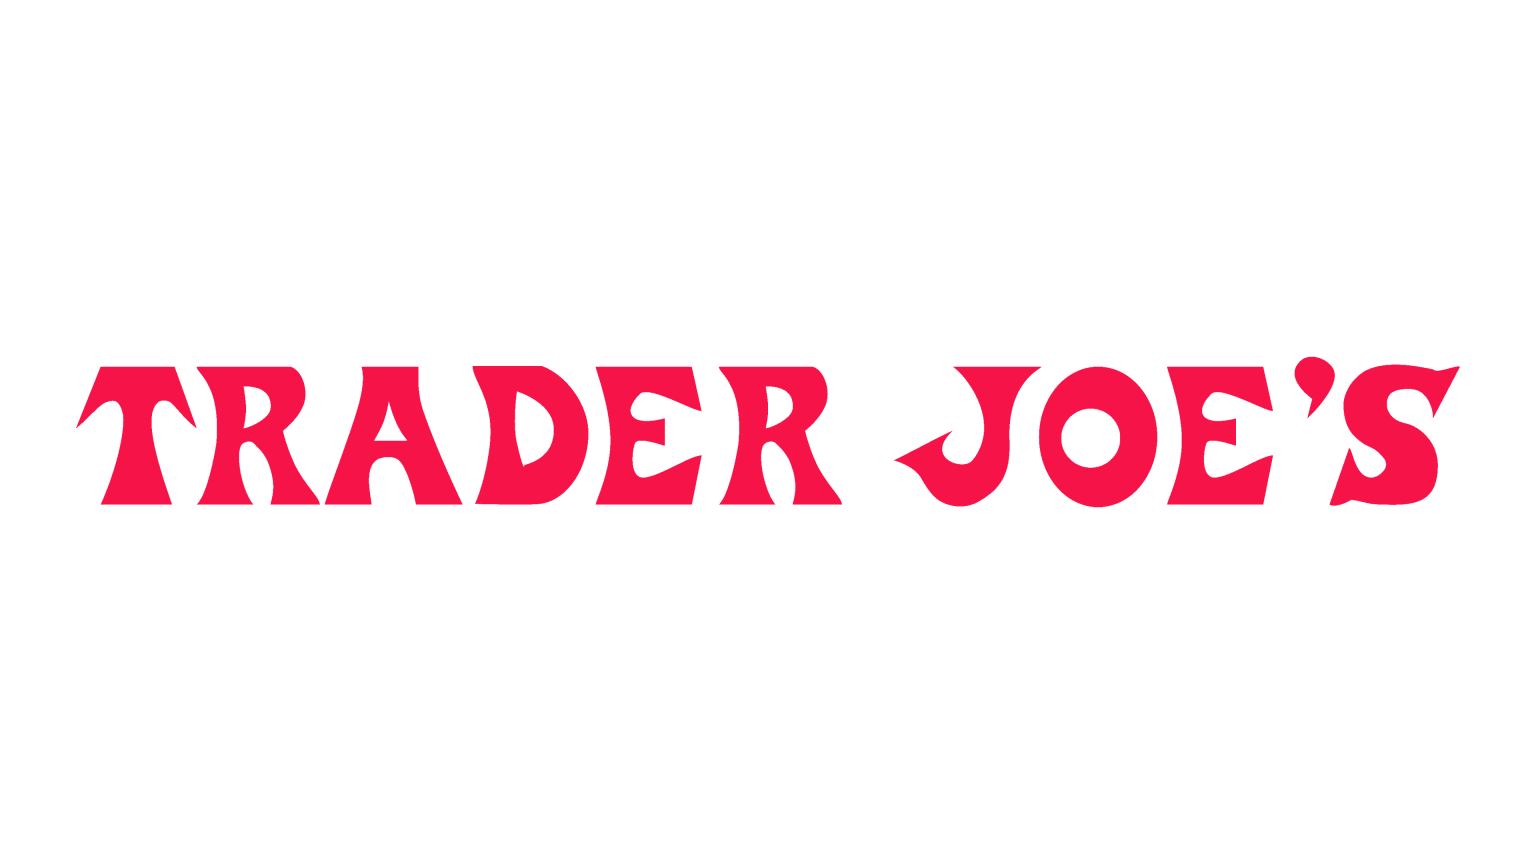
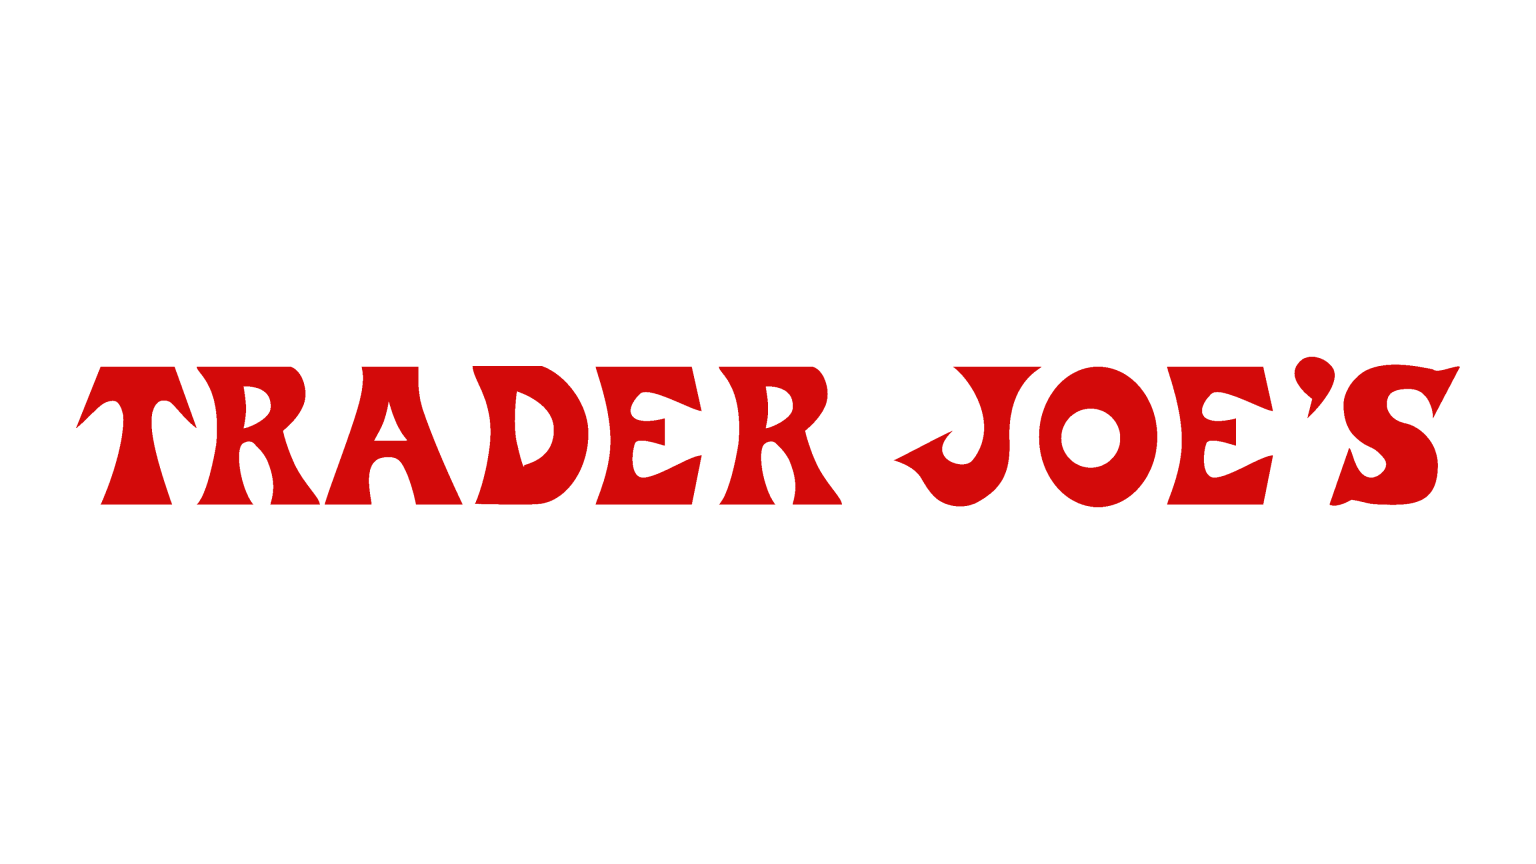
c

Changed region(s): [[0.0312, 0.4062, 0.5625, 0.5938], [0.5938, 0.4062, 0.9688, 0.5938]]

diff --git a/trader-joes/index.html b/trader-joes/index.html
@@ -406,7 +406,7 @@
      fills the letterbox area. Before = white (the before image is a
      transparent PNG so the cell's white shows through). After = one
      of two colors per layer (white for the white-background variants,
-     red #F50A41 — the Trader Joe's brand red — for the one-on-red
+     red #D20000 — the Trader Joe's documented brand red — for the one-on-red
      variant) so the sequence never shows black and the red matches
      the red inside each image seamlessly. The After cell layers three wordmark variants that slide
      horizontally like a wall of panels: the active panel sits at x=0,
@@ -422,7 +422,7 @@
 
   .foundations-after { position: relative; overflow: hidden; background: #ffffff; }
   .foundations-after__layer--white { background: #ffffff; }
-  .foundations-after__layer--red   { background: #F50A41; }
+  .foundations-after__layer--red   { background: #D20000; }
   .foundations-after__layer {
     position: absolute;
     inset: 0;
@@ -593,6 +593,13 @@
     .deliverables-cell:hover .deliverables-cell__img,
     .deliverables-cell:focus-within .deliverables-cell__img { transform: none; }
   }
+
+  /* ─── 06 · Identity poster cell ───────────────────────────────────
+     case-study.css paints .media__img with a black background. Here
+     we want white behind the poster instead so any edge trim reads
+     as a clean white border, matching the poster's own page color. */
+  .identity-poster       { background: #ffffff; }
+  .identity-poster__img  { background: #ffffff; object-fit: contain; }
   @media (prefers-reduced-motion: reduce) {
     .lineup-cell__img,
     .lineup-preview { transition: opacity 120ms linear; transform: none; }
@@ -1194,12 +1201,11 @@
     </div>
 
     <hr class="unesco__section-rule" aria-hidden="true" />
-    <!-- ─── 06 · Typography ────────────────────────────────────────── -->
+    <!-- ─── 06 · Identity System ─────────────────────────────────── -->
     <div class="g-span-1 section-text">
-      <p class="section-label"><span class="section-label__num">06</span>Typography</p>
+      <p class="section-label"><span class="section-label__num">06</span>Identity System</p>
       <p class="statement">
-        A system must be able to flex. So, how far can the logo
-        <em>be pushed</em>?
+        A world seen through <em>Good Guy Joe&rsquo;s</em> eyes.
       </p>
       <button class="read-more" type="button" aria-expanded="false" aria-controls="rm-typography">
         <span>Read more</span>
@@ -1207,240 +1213,29 @@
       </button>
       <div class="read-more__panel" id="rm-typography">
         <div class="read-more__inner">
-          <p>Well, I kept asking &ldquo;what if?&rdquo; of the modular logo, holding to one rule: no new shapes, only what the logo is made of. That rule produced two typefaces for the identity system: Building Blocks and Woven Textiles.</p>
+          <p>This is perhaps my most youthful project: imaginative, tangible, and maximalist. I am open-minded and versatile. I am not bound to one style. One thing that defines my work is my affinity for color. The world is beautiful, and I have been given the gift of experiencing its colors.</p>
         </div>
       </div>
     </div>
 
     <div class="g-span-2 section-media">
-      <!-- Two custom typefaces side by side. Portrait 2:3 to match
-           the PDF page ratio each was exported from. -->
-      <div class="media-pair">
-        <figure class="media" style="aspect-ratio: 2 / 3;">
-          <img class="media__img" src="/ASSETS/IMAGES/UNESCO/typeface-01.jpg" alt="Custom Typeface 1 — Building Blocks" />
-        </figure>
-        <figure class="media" style="aspect-ratio: 2 / 3;">
-          <img class="media__img" src="/ASSETS/IMAGES/UNESCO/typeface-02.jpg" alt="Custom Typeface 2 — Woven Textiles" />
-        </figure>
-      </div>
-    </div>
-
-    <hr class="unesco__section-rule" aria-hidden="true" />
-    <!-- ─── 07 · Applications (three-image row) ──────────────────── -->
-    <div class="g-span-1 section-text">
-      <p class="section-label"><span class="section-label__num">07</span>Applications</p>
-      <p class="statement">
-        The system then is carried into both spatial, ephemeral and
-        <em>digital</em> media.
-      </p>
-      <button class="read-more" type="button" aria-expanded="false" aria-controls="rm-applications">
-        <span>Read more</span>
-        <span class="read-more__line" aria-hidden="true"></span>
-      </button>
-      <div class="read-more__panel" id="rm-applications">
-        <div class="read-more__inner">
-          <p><strong>The World Needs U.</strong></p>
-          <p>The slogan plays on the four U&rsquo;s in the logo, but it reaches past UNESCO to the world it serves: us. Organizations like UNESCO exist for the generations that come after us. It&rsquo;s on all of us to carry our stories, cultures, and traditions into the future, not leave them behind. The world needs U.</p>
-          <p><strong>Safeguard Humanity&rsquo;s Inheritance.</strong><br>Our inheritance is all around us, in the identities we hold today. Without intention, it can be lost.</p>
-          <p><strong>Protect/Preserve/Prepare What Makes Us Human.</strong><br>Protect who we are today. Preserve what the past has given us. Prepare what we pass on. This is why the rebrand matters: we cannot forget who we are, or what shaped us.</p>
-          <p>I think, create, and design this way because of my Peruvian and Salvadoran heritage. This is my perspective, and that is the beauty of who we are, as individuals and as a collective. Every perspective is needed to see the whole picture. Without our cultures, our stories, and our identities, humanity would be a shell of itself.</p>
-          <p>As part of the identity system, I also designed a new digital home for UNESCO, one that puts the people, lands, and cultures it protects at the center. I left the corporate look behind for something inviting, youthful, and vibrant. My goal was for every page to offer something new, so visitors would keep wanting to discover more.</p>
-        </div>
-      </div>
-    </div>
-
-    <div class="g-span-2 section-media">
-      <!-- 3 × 2 poster grid — the six macro posters from the series.
-           Visual order: 01, 06, 03, 05, 04, 02 (per user layout). -->
-      <div class="section-media__posters">
-        <figure class="media media--poster"><img class="media__img" src="/ASSETS/IMAGES/UNESCO/poster-01.jpg" alt="UNESCO macro poster — Safeguard Humanity's Inheritance" /></figure>
-        <figure class="media media--poster"><img class="media__img" src="/ASSETS/IMAGES/UNESCO/poster-06.jpg" alt="UNESCO macro poster — United Nations Educational, Scientific And Cultural Organization" /></figure>
-        <figure class="media media--poster"><img class="media__img" src="/ASSETS/IMAGES/UNESCO/poster-03.jpg" alt="UNESCO macro poster — The World Needs U, 1946–2026" /></figure>
-        <figure class="media media--poster"><img class="media__img" src="/ASSETS/IMAGES/UNESCO/poster-05.jpg" alt="UNESCO macro poster — The World That Sustains, Moves, Remembers, and is Built Through Us" /></figure>
-        <figure class="media media--poster"><img class="media__img" src="/ASSETS/IMAGES/UNESCO/poster-04.jpg" alt="UNESCO macro poster — Protect What Makes Us Human" /></figure>
-        <figure class="media media--poster"><img class="media__img" src="/ASSETS/IMAGES/UNESCO/poster-02.jpg" alt="UNESCO macro poster — Protect. Preserve. Prepare." /></figure>
-      </div>
-
-      <!-- Each cell cycles 4 images on a shared 16s loop; the two cells
-           split the 8 applications equally. 05 is pinned near the
-           bottom so the UNESCO podium stays visible when the portrait
-           crops into the square cell. See .media__aslide keyframes. -->
-      <div class="section-media__triptych section-media__triptych--pair">
-        <figure class="media media--square">
-          <img class="media__img media__aslide media__aslide--1" src="/ASSETS/IMAGES/UNESCO/application-02.jpg" alt="UNESCO application — rooftop billboard" />
-          <img class="media__img media__aslide media__aslide--2" style="object-position: center 85%;" src="/ASSETS/IMAGES/UNESCO/application-05.jpg" alt="UNESCO application — Director-General podium" />
-          <img class="media__img media__aslide media__aslide--3" src="/ASSETS/IMAGES/UNESCO/application-07.jpg" alt="UNESCO application — bridge wheatpaste poster" />
-          <img class="media__img media__aslide media__aslide--4" src="/ASSETS/IMAGES/UNESCO/application-10.jpg" alt="UNESCO application — cylindrical street kiosk" />
-        </figure>
-        <figure class="media media--square">
-          <img class="media__img media__aslide media__aslide--1" src="/ASSETS/IMAGES/UNESCO/application-04.jpg" alt="UNESCO application — building-side billboard" />
-          <img class="media__img media__aslide media__aslide--2" src="/ASSETS/IMAGES/UNESCO/application-09.jpg" alt="UNESCO application — unesco HQ banner" />
-          <img class="media__img media__aslide media__aslide--3" src="/ASSETS/IMAGES/UNESCO/application-11.jpg" alt="UNESCO application — parking + bike station sign" />
-          <img class="media__img media__aslide media__aslide--4" src="/ASSETS/IMAGES/UNESCO/application-12.jpg" alt="UNESCO application — The World Needs U. kiosk" />
-        </figure>
-      </div>
-
-      <!-- Walkthrough screen recording — full native video controls so
-           visitors can play / pause / scrub. Uses object-fit: contain
-           + black bg so the full recording frame is always visible. -->
-      <figure class="media media--wide applications-walkthrough">
-        <video class="media__video applications-walkthrough__video"
-               controls preload="metadata" playsinline webkit-playsinline
-               disablepictureinpicture disableremoteplayback
-               aria-label="UNESCO applications walkthrough">
-          <source src="/ASSETS/IMAGES/UNESCO/applications-walkthrough.mp4" type="video/mp4">
-        </video>
+      <!-- Solo identity system poster — portrait 2:3 matches the PDF's
+           native page ratio. The designer attribution in the footer bar
+           is painted over with matching #D20000 at export time. White
+           backdrop + contain fit so any tiny edge trim shows as white,
+           not the case-study.css default black. -->
+      <figure class="media identity-poster" style="aspect-ratio: 2 / 3;">
+        <img class="media__img identity-poster__img" src="/ASSETS/IMAGES/TRADER%20JOES/identity-hero.jpg" alt="Trader Joe&rsquo;s identity system poster: key drivers, taglines, concept, typography, materials, target audience, and color palette" />
       </figure>
-    </div>
-
-    <hr class="unesco__section-rule" aria-hidden="true" />
-    <!-- ─── 08 · Tangible Forms ──────────────────────────────────── -->
-    <div class="g-span-1 section-text">
-      <p class="section-label"><span class="section-label__num">08</span>Tangible Forms</p>
-      <p class="statement">
-        80 years of human connection.
-        <em>What an accomplishment</em>.
-      </p>
-      <button class="read-more" type="button" aria-expanded="false" aria-controls="rm-celebration">
-        <span>Read more</span>
-        <span class="read-more__line" aria-hidden="true"></span>
-      </button>
-      <div class="read-more__panel" id="rm-celebration">
-        <div class="read-more__inner">
-          <p>To honor 80 years of UNESCO, I wanted objects you could hold and contemplate, built around what I see as UNESCO&rsquo;s greatest accomplishment: human connection. I commissioned a woven blanket and, wanting in on the fun, I personally hand-sewed a vegetable-tanned leather bag, its icons coming together to form an image of our world. The same image lives in the printed atlas.</p>
-          <p>You never know where one small idea will take you. That&rsquo;s the beauty of design. It is vital to my process to never throw an idea away. I keep it close, in my sketches. Perhaps it returns in a way I hadn&rsquo;t imagined.</p>
-        </div>
-      </div>
-    </div>
-
-    <div class="g-span-2 section-media">
-      <!-- 2 long portrait cells, side by side on desktop, stacked on
-           mobile. All 15 celebration images are split evenly: cell A
-           cycles 01–08 (8 images), cell B cycles 09–15 (7 images).
-           JS at the bottom of the page toggles .is-active on one
-           slide at a time; CSS handles the crossfade. -->
-      <div class="section-media__triptych section-media__triptych--pair tangible-forms">
-        <figure class="media tangible-forms__cell" data-tangible-interval="5000" style="aspect-ratio: 3 / 2;">
-          <img class="media__img media__tslide is-zoomed is-active" src="/ASSETS/IMAGES/UNESCO/celebration-01.jpg" alt="Tangible form 01" />
-          <img class="media__img media__tslide" src="/ASSETS/IMAGES/UNESCO/celebration-02.jpg" alt="Tangible form 02" />
-          <img class="media__img media__tslide" src="/ASSETS/IMAGES/UNESCO/celebration-03.jpg" alt="Tangible form 03" />
-          <img class="media__img media__tslide" src="/ASSETS/IMAGES/UNESCO/celebration-04.jpg" alt="Tangible form 04" />
-          <img class="media__img media__tslide" src="/ASSETS/IMAGES/UNESCO/celebration-05.jpg" alt="Tangible form 05" />
-          <img class="media__img media__tslide" src="/ASSETS/IMAGES/UNESCO/celebration-06.jpg" alt="Tangible form 06" />
-          <img class="media__img media__tslide" src="/ASSETS/IMAGES/UNESCO/celebration-07.jpg" alt="Tangible form 07" />
-          <img class="media__img media__tslide" src="/ASSETS/IMAGES/UNESCO/celebration-08.jpg" alt="Tangible form 08" />
-        </figure>
-        <figure class="media tangible-forms__cell" data-tangible-interval="5000" style="aspect-ratio: 3 / 2;">
-          <img class="media__img media__tslide is-active" src="/ASSETS/IMAGES/UNESCO/celebration-09.jpg" alt="Tangible form 09" />
-          <img class="media__img media__tslide" src="/ASSETS/IMAGES/UNESCO/celebration-10.jpg" alt="Tangible form 10" />
-          <img class="media__img media__tslide" src="/ASSETS/IMAGES/UNESCO/celebration-11.jpg" alt="Tangible form 11" />
-          <img class="media__img media__tslide" src="/ASSETS/IMAGES/UNESCO/celebration-12.jpg" alt="Tangible form 12" />
-          <img class="media__img media__tslide" src="/ASSETS/IMAGES/UNESCO/celebration-13.jpg" alt="Tangible form 13" />
-          <img class="media__img media__tslide" src="/ASSETS/IMAGES/UNESCO/celebration-14.jpg" alt="Tangible form 14" />
-          <img class="media__img media__tslide" src="/ASSETS/IMAGES/UNESCO/celebration-15.jpg" alt="Tangible form 15" />
-        </figure>
-      </div>
-    </div>
-
-    <hr class="unesco__section-rule" aria-hidden="true" />
-    <!-- ─── 09 · Campaign Direction ───────────────────────────────── -->
-    <div class="g-span-1 section-text">
-      <p class="section-label"><span class="section-label__num">09</span>Campaign Direction</p>
-      <p class="statement">
-        The creation of a campaign hosted by UNESCO,
-        <em>&ldquo;Living Traces&rdquo;</em>.
-      </p>
-      <button class="read-more" type="button" aria-expanded="false" aria-controls="rm-campaign">
-        <span>Read more</span>
-        <span class="read-more__line" aria-hidden="true"></span>
-      </button>
-      <div class="read-more__panel" id="rm-campaign">
-        <div class="read-more__inner">
-          <p>In direct contrast to the identity system, I created a campaign about the languages, traditions, and cultures at risk of disappearing. The subject is urgent, so I stripped away all color and made the campaign impossible to ignore.</p>
-          <p>The name Living Traces holds two truths: these cultures are still alive, but only as traces. Once they fade, they may never return. The campaign brings light to what is nearly lost and asks the world to do its part: to protect our cultures, and our neighbors&rsquo;, as we move into the future.</p>
-        </div>
-      </div>
-    </div>
-
-    <div class="g-span-2 section-media">
-      <!-- 3 micro posters sit at the top of the Campaign Direction
-           media column: a portrait triptych that previews the
-           Living Traces print campaign. On mobile, the two black
-           posters (01, 03) sit side by side on the top row and the
-           grey poster (02) sits centered beneath. -->
-      <div class="section-media__posters section-media__posters--campaign">
-        <figure class="media media--poster"><img class="media__img" src="/ASSETS/IMAGES/UNESCO/micro-poster-01.jpg" alt="Living Traces micro poster 01" /></figure>
-        <figure class="media media--poster"><img class="media__img" src="/ASSETS/IMAGES/UNESCO/micro-poster-02.jpg" alt="Living Traces micro poster 02" /></figure>
-        <figure class="media media--poster"><img class="media__img" src="/ASSETS/IMAGES/UNESCO/micro-poster-03.jpg" alt="Living Traces micro poster 03" /></figure>
-      </div>
-
-      <!-- Campaign walkthrough screen recording — native play / pause
-           / scrub controls. Cover-crops to fill the 16:9 cell so no
-           letterbox bars appear. -->
-      <figure class="media media--wide campaign-walkthrough">
-        <video class="media__video campaign-walkthrough__video"
-               controls preload="metadata" playsinline webkit-playsinline
-               disablepictureinpicture disableremoteplayback
-               aria-label="Living Traces campaign walkthrough">
-          <source src="/ASSETS/IMAGES/UNESCO/campaign-walkthrough.mp4" type="video/mp4">
-        </video>
-      </figure>
-    </div>
-
-    <hr class="unesco__section-rule" aria-hidden="true" />
-    <!-- ─── 10 · The Printed Atlas ────────────────────────────────── -->
-    <div class="g-span-1 section-text">
-      <p class="section-label"><span class="section-label__num">10</span>The Printed Atlas</p>
-      <p class="statement">
-        Before the <em>Digital Atlas</em>, there was the printed one.
-      </p>
-      <button class="read-more" type="button" aria-expanded="false" aria-controls="rm-printed-atlas">
-        <span>Read more</span>
-        <span class="read-more__line" aria-hidden="true"></span>
-      </button>
-      <div class="read-more__panel" id="rm-printed-atlas">
-        <div class="read-more__inner">
-          <p>It begins as a celebration of our differences: the languages we speak, the lands we tend, the rituals we keep, the monuments we raise. But turn the pages, and something quieter surfaces. Somewhere between the words and the traditions, you start to see yourself in a stranger. Because before anything else, you and I are human.</p>
-          <p>Open the atlas and the world unfolds in your hands. Four icons mark the four worlds UNESCO protects. Each world then appears on its own, with a map where every icon carries a number: the page where that place can be found. Each map becomes a table of contents for the globe.</p>
-        </div>
-      </div>
-    </div>
-
-    <div class="g-span-2 section-media">
-      <!-- 48-page atlas. Two layered image elements crossfade as the
-           page changes; the timeline below is a hover-scrubber that
-           sets a target page. With no hover, pages auto-advance and
-           wrap at 48 → 1. -->
-      <div class="atlas-book" id="atlas-book">
-        <div class="atlas-book__stage" id="atlas-stage">
-          <img class="atlas-book__spread atlas-book__spread--a is-active" id="atlas-a" src="/ASSETS/IMAGES/UNESCO/BOOK/atlas-01.jpg" alt="Atlas page 1 of 48" />
-          <img class="atlas-book__spread atlas-book__spread--b" id="atlas-b" src="/ASSETS/IMAGES/UNESCO/BOOK/atlas-02.jpg" alt="" aria-hidden="true" />
-          <div class="atlas-book__spine" aria-hidden="true"></div>
-        </div>
-        <div
-          class="atlas-book__timeline"
-          id="atlas-timeline"
-          role="toolbar"
-          aria-label="Scrub through the printed atlas"
-        >
-          <!-- 48 .atlas-book__thumb buttons generated by the atlas JS -->
-          <div class="atlas-book__timeline-tooltip" id="atlas-timeline-tooltip" aria-hidden="true">01</div>
-        </div>
-        <div class="atlas-book__counter" aria-hidden="true">
-          <small>Page</small>
-          <span id="atlas-counter">01 / 48</span>
-        </div>
-      </div>
     </div>
 
   </section>
 
   <!-- ══════════════════════ CLOSING IMAGE (full bleed) ══════════════════════
-       Full-viewport-width hero shot that closes the case study before the
-       pager. The image is shown at its natural aspect so nothing in the
-       composition (billboard type, tote copy, etc.) is cropped. -->
-  <figure class="unesco__closing-image" aria-label="UNESCO 'The World Needs U.' billboard on a city building with two children embracing in front">
-    <img src="/ASSETS/IMAGES/UNESCO/closing-hero.jpg" alt="UNESCO 'The World Needs U.' billboard on a city building with two children embracing in front" />
+       Full-width wordmark card that closes the case study. Shown at its
+       natural aspect so the rebrand wordmark reads edge to edge. -->
+  <figure class="unesco__closing-image" aria-label="Trader Joe&rsquo;s rebrand wordmark, white on red">
+    <img src="/ASSETS/IMAGES/TRADER%20JOES/closing-hero.jpg" alt="Trader Joe&rsquo;s rebrand wordmark, white on red" />
   </figure>
 
   <!-- ══════════════════════ PREV / NEXT ══════════════════════ -->
